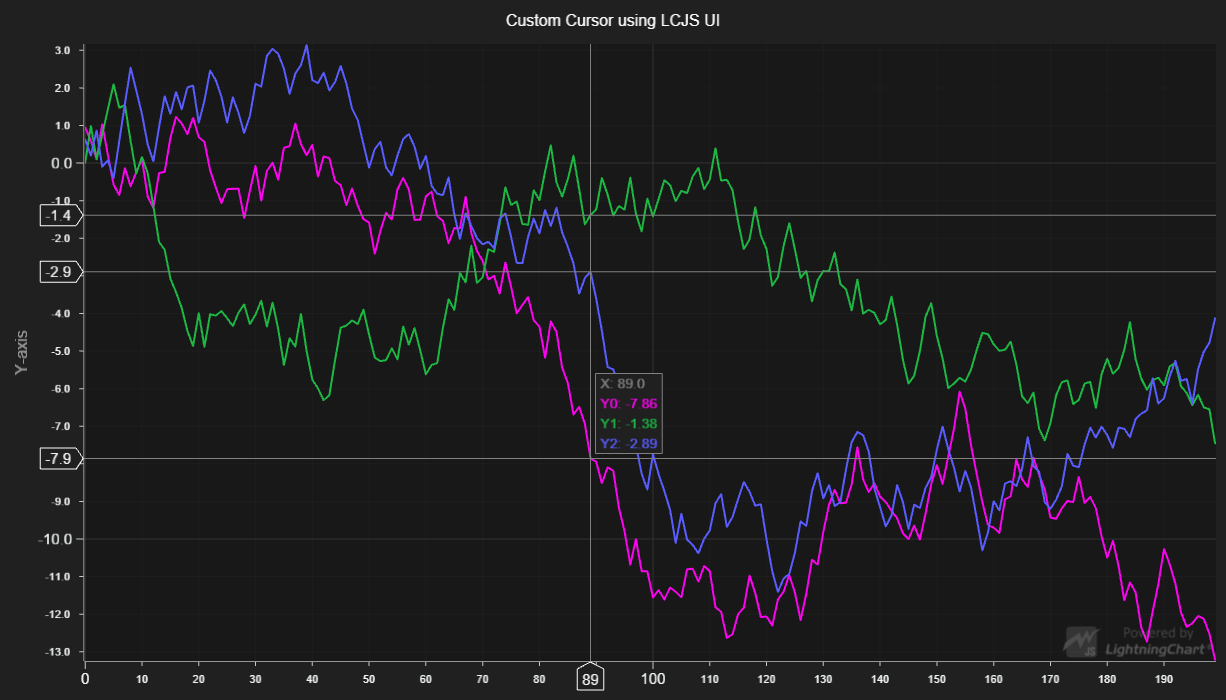
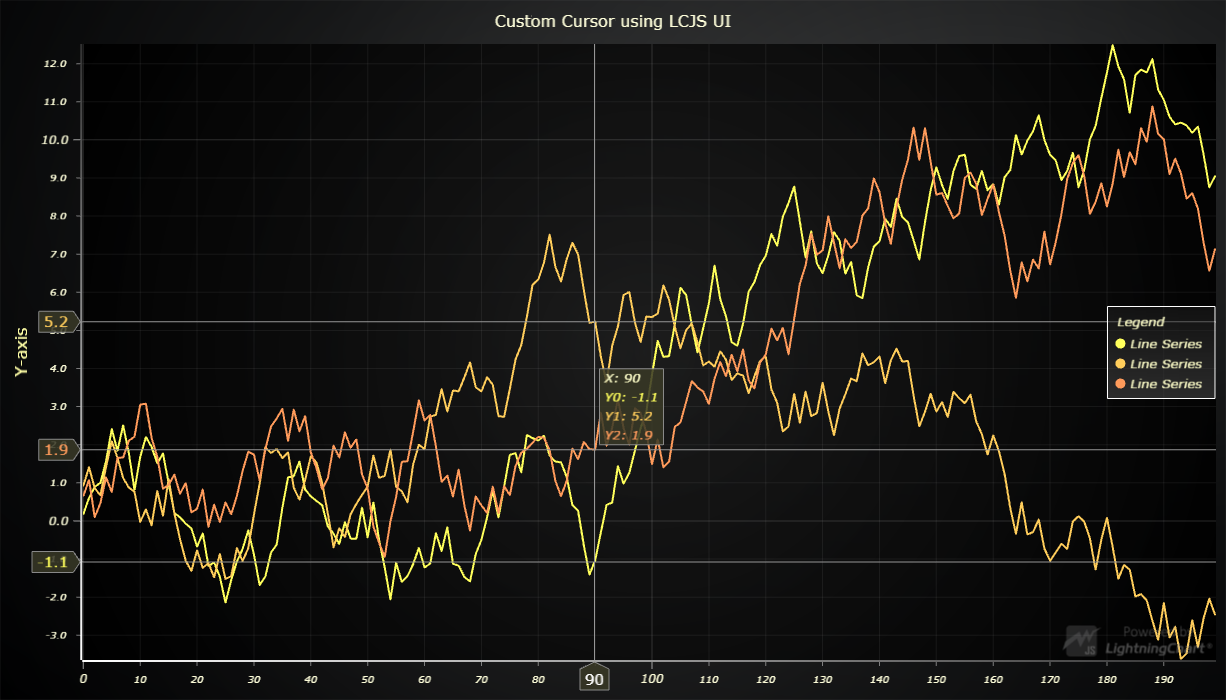
Update LCJS version

diff --git a/src/index.js b/src/index.js
@@ -16,23 +16,15 @@ const {
   AutoCursorModes,
   UIElementBuilders,
   UILayoutBuilders,
-  UIBackgrounds,
-  ColorHEX,
-  ColorCSS,
-  SolidFill,
-  SolidLine,
   UIOrigins,
   translatePoint,
   Themes,
 } = lcjs;
 
-// colors of the series
-const colors = ["#fc03f0", "#1cb843", "#595cff", "#0955ff", "#500c3f"];
-
 // Create a XY Chart.
 const chart = lightningChart()
   .ChartXY({
-    // theme: Themes.dark
+    // theme: Themes.darkGold
   })
   // Disable native AutoCursor to create custom
   .setAutoCursorMode(AutoCursorModes.disabled)
@@ -43,12 +35,12 @@ chart.getDefaultAxisY().setTitle("Y-axis");
 
 // generate data and creating the series
 const series = new Array(3).fill(0).map((_, iSeries) => {
-  const nSeries = chart.addLineSeries().setStrokeStyle(
-    new SolidLine({
-      fillStyle: new SolidFill({ color: ColorHEX(colors[iSeries]) }),
-      thickness: 2,
-    })
-  );
+  const nSeries = chart.addLineSeries({
+    dataPattern: {
+        // pattern: 'ProgressiveX' => Each consecutive data point has increased X coordinate.
+        pattern: 'ProgressiveX'
+    }
+  })
 
   createProgressiveTraceGenerator()
     .setNumberOfPoints(200)
@@ -60,10 +52,13 @@ const series = new Array(3).fill(0).map((_, iSeries) => {
   return nSeries;
 });
 
+// Add Legend.
+const legend = chart.addLegendBox().add(chart)
+
 // Create UI elements for custom cursor.
 const resultTable = chart
   .addUIElement(
-    UILayoutBuilders.Column.setBackground(UIBackgrounds.Rectangle),
+    UILayoutBuilders.Column,
     {
       x: chart.getDefaultAxisX(),
       y: chart.getDefaultAxisY(),
@@ -72,49 +67,34 @@ const resultTable = chart
   .setMouseInteractions(false)
   .setOrigin(UIOrigins.LeftBottom)
   .setMargin(5)
-  .setBackground((background) =>
-    background.setStrokeStyle(
-      new SolidLine({
-        thickness: 1,
-        fillStyle: new SolidFill({ color: ColorCSS("gray") }),
-      })
-    )
+  .setBackground((background) => background
+     // Style same as Theme result table.
+     .setFillStyle(chart.getTheme().resultTableFillStyle)
+     .setStrokeStyle(chart.getTheme().resultTableStrokeStyle)
   );
 
 const rowX = resultTable
   .addElement(UILayoutBuilders.Row)
   .addElement(UIElementBuilders.TextBox)
-  .setTextFont((font) => font.setSize(14))
-  .setTextFillStyle(new SolidFill({ color: ColorCSS("gray") }));
 
 const rowsY = series.map((el, i) => {
   return resultTable
     .addElement(UILayoutBuilders.Row)
     .addElement(UIElementBuilders.TextBox)
-    .setTextFont((font) => font.setSize(14))
-    .setTextFillStyle(new SolidFill({ color: ColorHEX(colors[i]) }));
+    .setTextFillStyle(series[i].getStrokeStyle().getFillStyle());
 });
 
 const tickX = chart
   .getDefaultAxisX()
   .addCustomTick()
-  .setGridStrokeStyle(
-    new SolidLine({
-      thickness: 1,
-      fillStyle: new SolidFill({ color: ColorCSS("gray") }),
-    })
-  );
 
-const ticksY = series.map((el) => {
+const ticksY = series.map((el, i) => {
   return chart
     .getDefaultAxisY()
     .addCustomTick()
-    .setGridStrokeStyle(
-      new SolidLine({
-        thickness: 1,
-        fillStyle: new SolidFill({ color: ColorCSS("gray") }),
-      })
-    );
+    .setMarker((marker) => marker
+      .setTextFillStyle(series[i].getStrokeStyle().getFillStyle())
+    )
 });
 
 // Hide custom cursor components initially.
@@ -183,9 +163,9 @@ chart.onSeriesBackgroundMouseMove((_, event) => {
     }
 
     // Format result table text.
-    rowX.setText(`X: ${nearestPoint.location.x.toFixed(1)}`);
+    rowX.setText(`X: ${chart.getDefaultAxisX().formatValue(nearestPoint.location.x)}`);
     rowsY.map((rowY, i) => {
-      rowY.setText(`Y${i}: ${nearestDataPoints[i].location.y.toFixed(2)}`);
+      rowY.setText(`Y${i}: ${chart.getDefaultAxisY().formatValue(nearestDataPoints[i].location.y)}`);
     });
 
     // Position custom ticks.

diff --git a/webpack.config.js b/webpack.config.js
@@ -69,7 +69,8 @@ module.exports = {
         }),
         new CopyWebpackPlugin({
             patterns: [
-                { from: './assets/**/*', to: './examples/assets', flatten: true, noErrorOnMissing: true }
+                { from: './assets/**/*', to: './examples/assets', flatten: true, noErrorOnMissing: true },
+                { from: './node_modules/@arction/lcjs/dist/resources', to: 'resources', noErrorOnMissing: true },
             ]
         })
     ]

diff --git a/README.md b/README.md
@@ -105,18 +105,18 @@ Direct developer email support can be purchased through a [Support Plan][4] or b
 © Arction Ltd 2009-2020. All rights reserved.
 
 
-[Lightning Chart top reference]: https://www.arction.com/lightningchart-js-api-documentation/v3.0.1/interfaces/lightningchart.html
-[Coordinate system translation method]: https://www.arction.com/lightningchart-js-api-documentation/v3.0.1/globals.html#translatepoint
-[Auto cursor modes]: https://www.arction.com/lightningchart-js-api-documentation/v3.0.1/enums/autocursormodes.html
-[UI element builders]: https://www.arction.com/lightningchart-js-api-documentation/v3.0.1/globals.html#uielementbuilders
-[UI layout builders]: https://www.arction.com/lightningchart-js-api-documentation/v3.0.1/globals.html#uilayoutbuilders
-[UI backgrounds]: https://www.arction.com/lightningchart-js-api-documentation/v3.0.1/globals.html#uibackgrounds
-[UI position origin]: https://www.arction.com/lightningchart-js-api-documentation/v3.0.1/globals.html#uiorigins
-[Color factory hexadecimal]: https://www.arction.com/lightningchart-js-api-documentation/v3.0.1/globals.html#colorhex
-[Color factory css]: https://www.arction.com/lightningchart-js-api-documentation/v3.0.1/globals.html#colorcss
-[Solid fill style]: https://www.arction.com/lightningchart-js-api-documentation/v3.0.1/classes/solidfill.html
-[Solid line style]: https://www.arction.com/lightningchart-js-api-documentation/v3.0.1/classes/solidline.html
-[Chart XY]: https://www.arction.com/lightningchart-js-api-documentation/v3.0.1/classes/chartxy.html
-[Axis XY]: https://www.arction.com/lightningchart-js-api-documentation/v3.0.1/classes/axis.html
-[Custom tick]: https://www.arction.com/lightningchart-js-api-documentation/v3.0.1/classes/customtick.html
+[Lightning Chart top reference]: https://www.arction.com/lightningchart-js-api-documentation/v3.1.0/interfaces/lightningchart.html
+[Coordinate system translation method]: https://www.arction.com/lightningchart-js-api-documentation/v3.1.0/globals.html#translatepoint
+[Auto cursor modes]: https://www.arction.com/lightningchart-js-api-documentation/v3.1.0/enums/autocursormodes.html
+[UI element builders]: https://www.arction.com/lightningchart-js-api-documentation/v3.1.0/globals.html#uielementbuilders
+[UI layout builders]: https://www.arction.com/lightningchart-js-api-documentation/v3.1.0/globals.html#uilayoutbuilders
+[UI backgrounds]: https://www.arction.com/lightningchart-js-api-documentation/v3.1.0/globals.html#uibackgrounds
+[UI position origin]: https://www.arction.com/lightningchart-js-api-documentation/v3.1.0/globals.html#uiorigins
+[Color factory hexadecimal]: https://www.arction.com/lightningchart-js-api-documentation/v3.1.0/globals.html#colorhex
+[Color factory css]: https://www.arction.com/lightningchart-js-api-documentation/v3.1.0/globals.html#colorcss
+[Solid fill style]: https://www.arction.com/lightningchart-js-api-documentation/v3.1.0/classes/solidfill.html
+[Solid line style]: https://www.arction.com/lightningchart-js-api-documentation/v3.1.0/classes/solidline.html
+[Chart XY]: https://www.arction.com/lightningchart-js-api-documentation/v3.1.0/classes/chartxy.html
+[Axis XY]: https://www.arction.com/lightningchart-js-api-documentation/v3.1.0/classes/axis.html
+[Custom tick]: https://www.arction.com/lightningchart-js-api-documentation/v3.1.0/classes/customtick.html
 
